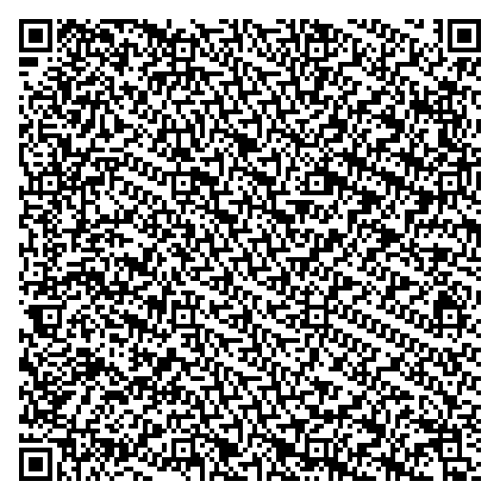
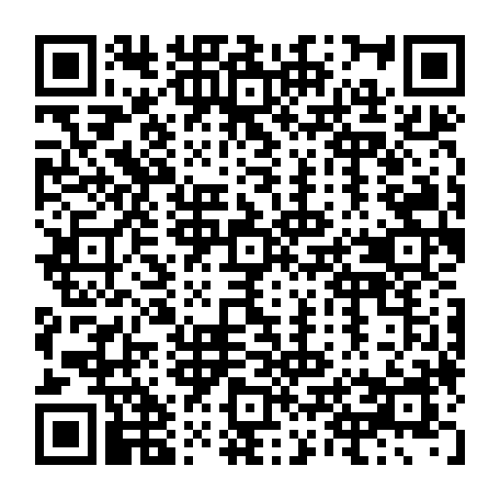
123

diff --git a/Example/QR/createQR.js b/Example/QR/createQR.js
@@ -11,7 +11,7 @@ const path = require('path');
 // QR 코드에 넣을 데이터
 // 전화번호 설정
 const phoneNumber = '01031277711';
-const telLink = `tel:01031277711`;
+const telLink = `tel:07040994358`;
 // URL 
 const URL1 = 'https://nanonix.help?tn=1';
 const URL2 = 'https://nanonix.help?tn=2';
@@ -46,21 +46,39 @@ const URL3 = 'https://nanonix.help?tn=3';
 // 2. 도트크기 컨트롤
 // 복원율
 // L<M<Q<H
+
+
+const orderData = [
+  {
+      option: {
+          temperature: "Ice",
+          iceLevel: "보통",
+          size: "Tall",
+          brewing: "에스프레소"
+      },
+      price: 4000
+  }
+  // 여기에 다른 주문 항목이 있다면 추가될 수 있습니다.
+];
+const orderDataString = JSON.stringify(orderData);
+
+
 // QR 코드 생성 (SVG 형식)
-let qrCode = QRgenerator(20, 'L');
-qrCode.addData(URL1);
+// 4 => 20 숫자가 커질수록 넣을수잇는 데이터가 커짐(픽셀이 많아짐)
+let qrCode = QRgenerator(8, 'L');
+qrCode.addData(orderDataString);
 qrCode.make();
 let qrSvg = qrCode.createSvgTag({});
 
 // SVG를 PNG로 변환하고 너비 지정하여 파일로 저장
 const svgBuffer = Buffer.from(qrSvg);
-const outputPath = 'phoneQRCode.png'; // PNG 파일 이름
+const filePath = path.join(__dirname, "QR.png");
 const width = 500; // 원하는 이미지의 너비 (픽셀 단위)
 
 sharp(svgBuffer)
   .png()
   .resize(width) // 너비 지정, 높이는 자동 조정
-  .toFile(outputPath, (err, info) => {
+  .toFile(filePath, (err, info) => {
     if (err) {
       console.error('QR 코드 생성 중 오류가 발생했습니다:', err);
     } else {
